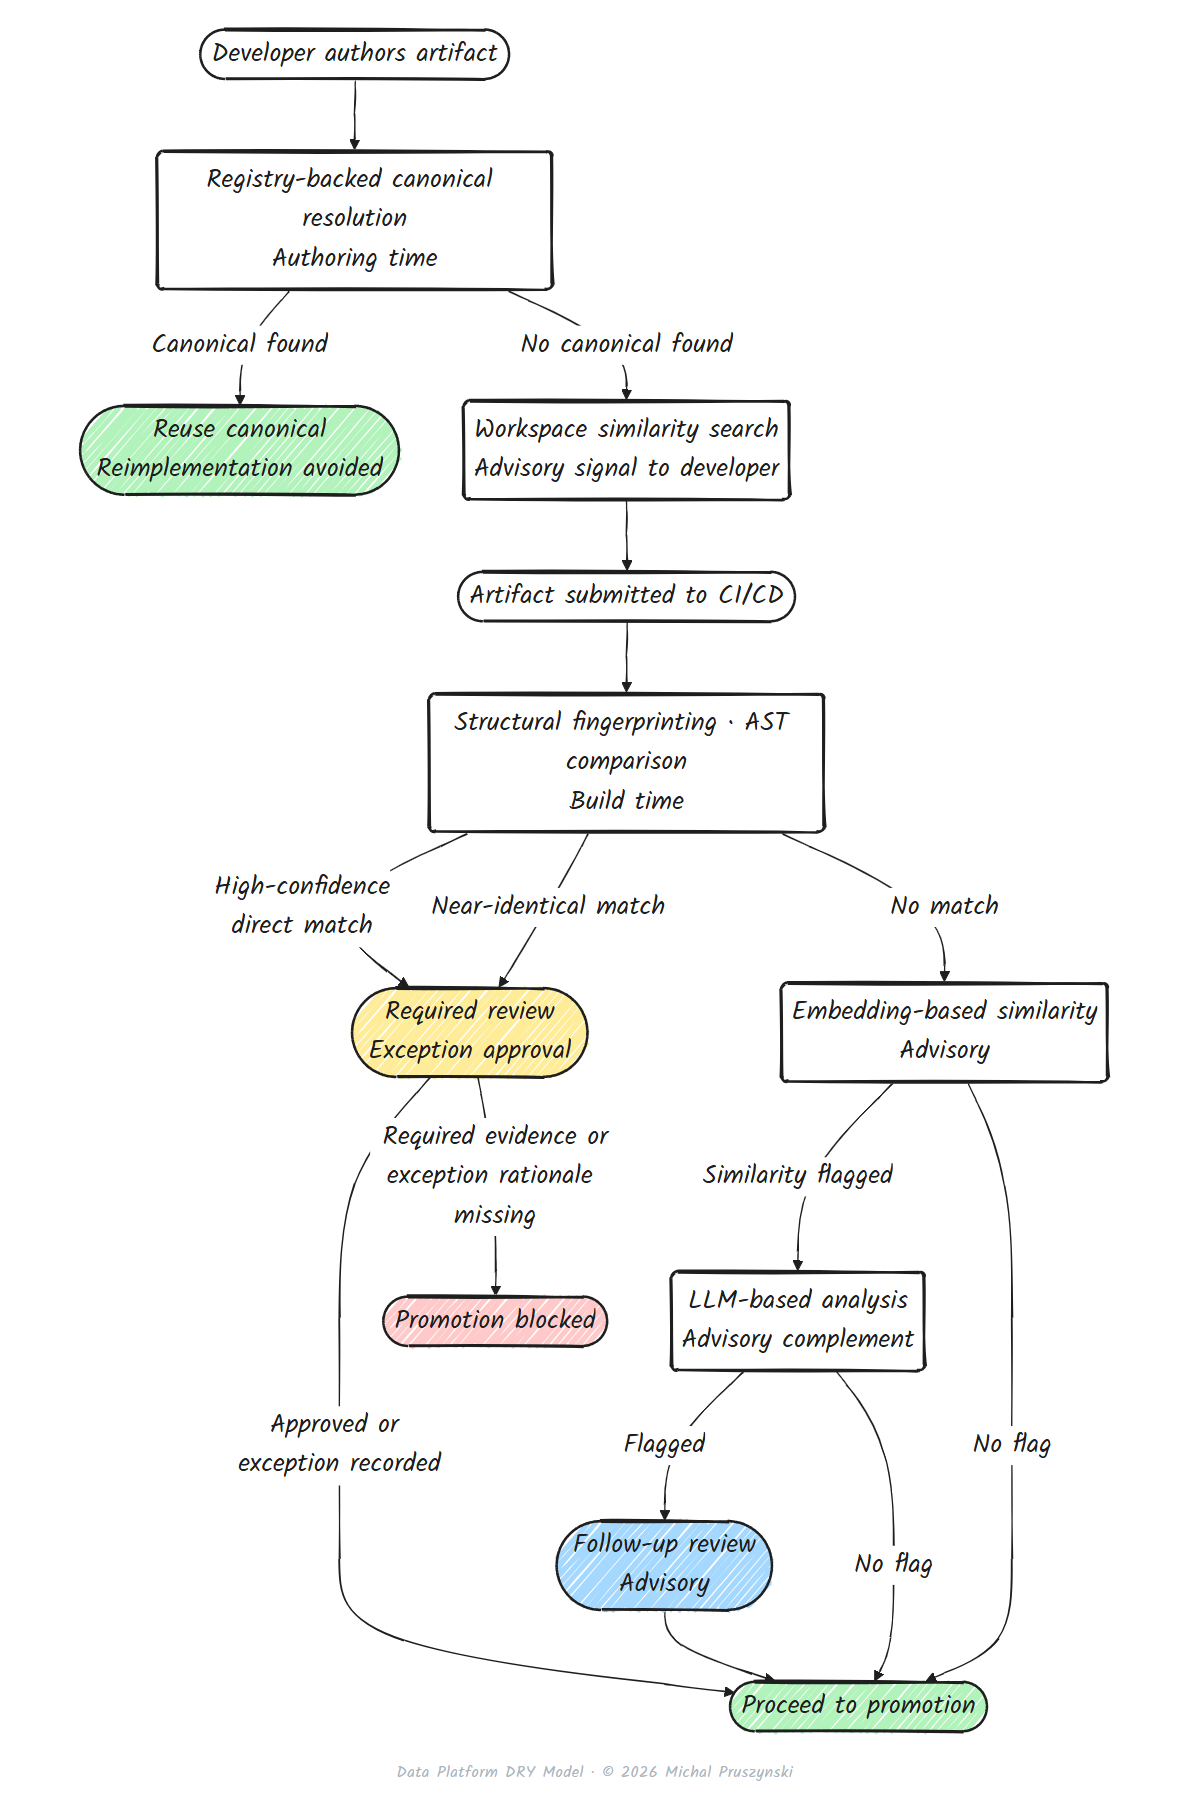
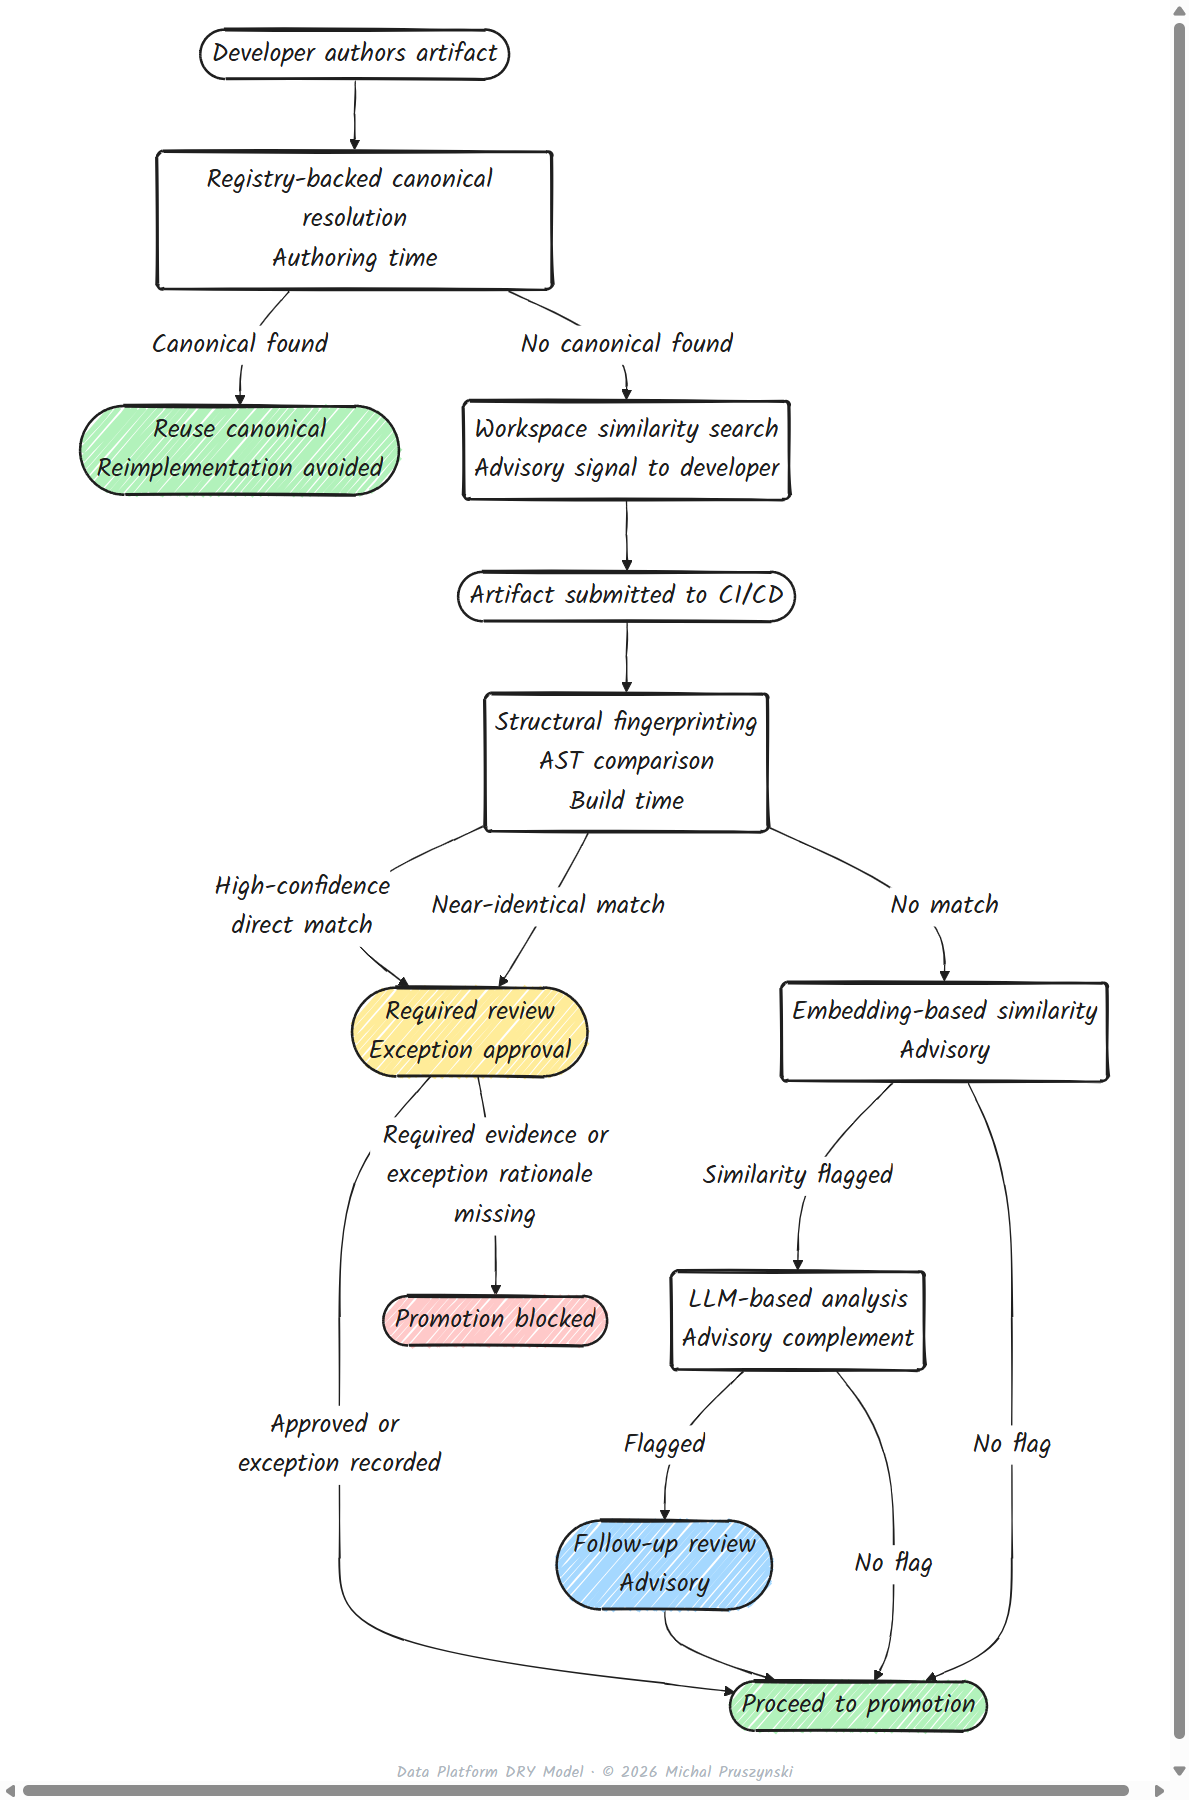
github pages

diff --git a/theme.scss b/theme.scss
@@ -119,7 +119,7 @@ main img {
 // Mapped by the inline width attribute; always capped to the content column.
 main img[width="500"] { width: 720px; margin-top: 0.4rem; }
 main img[width="700"] { width: 980px; }
-main img[width="760"] { width: 820px; }
+main img[width="760"] { width: 725px; }
 main img[width="800"] { width: 1080px; }
 main img[width="850"] { width: 1120px; }
 main img[width="900"] { width: 1160px; }

diff --git a/publications/whitepaper-data-platform-dry-model.md b/publications/whitepaper-data-platform-dry-model.md
@@ -120,7 +120,7 @@ The use case above shows that canonical logic and semantic layers are not enough
 **The Data Platform DRY Model provides the operational lens for evaluating and operationalizing reuse at scale.**
 
 #### Data Platform DRY Model
-<img src="assets-diagrams/dry-model-phases.jpg" width="650"/>
+<img src="assets-diagrams/dry-model-phases.jpg" width="700"/>
 
 ### Phase I: Evaluation
 
